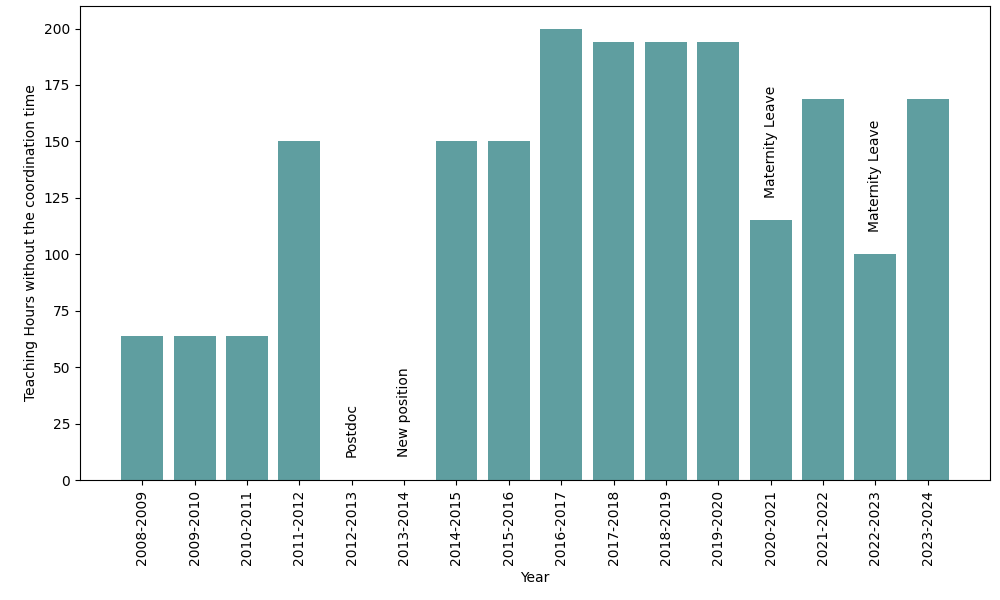
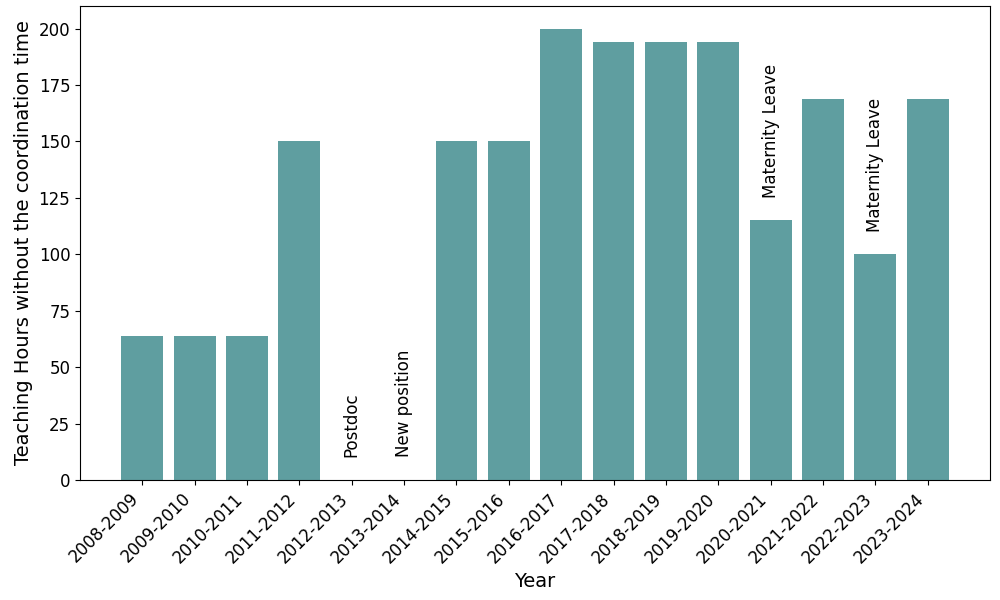
Add  sections

diff --git a/index.html b/index.html
@@ -68,8 +68,13 @@
 
 
                 <h3>Research Interests  </h3>
+                <div class="figure_center" >
+                    <img src="img/Topics.png"width="80%" height="80%">
+
+                </div>
                 <Div Align=LEFT>   <h4> <strong> Monitor, model and predict the critical zone under the global change (climatic ad societal) ... </strong> </h4>
                 </Div>
+
                 <p>"The Critical Zone is defined by National Research Council as the “surface and near-surface environment that sustains nearly all terrestrial life” and is highlighted in the report as a research focus of particular urgency, given the rapidly expanding needs of society."
                     <a href="https://agupubs.onlinelibrary.wiley.com/doi/full/10.1029/2007RG000242">Knight et al., 2010</a> </p>
                 <p>" The critical zone (CZ) includes natural and anthropogenic environments, where life, energy and matter cycles combine in complex interactions in time and space."
@@ -84,7 +89,7 @@
                         <li>Hydrological and Hydrogeological Impacts of Permafrost Dynamics</li>
                         <ul>
                             <li>Hydrodynamic and Transport Properties of Aquifers</li>
-                            <li>Numerical and Experimental Approaches to Permafrost Dynamics</li>
+                            <li>Numerical and Experimental Approaches to Permafrost Dynamics <a href="https://www.sciencedirect.com/science/article/abs/pii/S0165232X18300715?via%3Dihub"> ⟨10.1016/j.coldregions.2018.11.005⟩ </a></li>
                             <li>Interactions with Groundwater and Surface Water</li>
                             <li>From Local Scale to Sedimentary Basin; from Glacial-Interglacial Cycle to Current Warming</li>
                         </ul>
@@ -97,6 +102,7 @@
                         </ul>
                         <li>Hydrosystems Facing Global Changes (Climate and Societal):</li>
                         <ul>
+                            <li> Hydrodynamic Properties of Aquifers from  well water response to Earth tides <a href="https://egusphere.copernicus.org/preprints/2023/egusphere-2023-1727/"> ⟨10.5194/egusphere-2023-1727⟩</a> </li>
                             <li>Groundwater flooding : Study on Groundwater Rise in Paris and the Inner Suburbs during Seine and Marne Flooding event :  <a href="http://www.theses.fr/2019PSLEM057"> ⟨PAPI_EPTB⟩</a> </li>
                             <li>Water and Heat Fluxes from Atmosphere to Aquifers in the Seine Basin:  <a href="https://www.theses.fr/272277355"> ⟨HEAT_hydrosystem⟩</a>  </li>
                             <li> Anthropic Usages: Geothermal Applications, Cooling Systems, Water Pumping </li>
@@ -113,33 +119,42 @@
                         <p> <strong>Observatories :  </strong> Orgeval Critical zone (long-term and high frequency of water level and temperature) </p>
                         <p> <strong>Stakeholders collaborations :  </strong> PIREN Seine program  </p>
 
-<Div align="CENTER">
-                    <img src="img/methodo_AR.png"width="80%" height="80%">
+<div class="figure_center">
+    <img class="figure" style="width: 200px;" src="img/figures/diagrame_methodo_en.png" alt="GWSBound_metho" >
+
+    <img class="figure" style="width:450px;" src="img/figures/MethodoMix-3.png" alt="GWSBound_methoMix" >
+
 
                     <p> Figure 1: From phenological studies to numerical modelling à la simulation</p>
-</Div>
+</div>
 
                 <h3> Teaching Experience (14 Years) </h3>
                 <p> 3 years as Teaching Assistant (64 hours per year), 1 year as Temporary Lecturer (192 hours per year), 3 years as Tenure-Track Faculty (100-190 hours per year), and 2 years as Researcher-Teacher (150-200 hours per year). </p>
+
+
+                <div class="figure_center">
+                    <img class="figure" style="width: 200px;" src="img/Tearching_methodes.png" alt="hours_teaching_AR" >
+                    <p>Figure: Teaching </p>
+                </div>
+                <h4> Topics </h4>
                 <p>Hydrogeology and Hydrology quantitative, Transport of Solutes and Heat (Geothermal), Basics of hydrogeology and applied geology</p>
                 <p>Environmental Studies, Signal treatment, Data analysis,</p>
                 <p>Numerical programming, data processing and modeling in geosciences, </p>
                 <p> <a  href="https://www.linkedin.com/posts/minesparis_parolesdetudiants-molonari-activity-7140626410133426176-pPhH/?originalSubdomain=fr"> Engineering Project </a> : Development of local Monitoring Ecosystem of Groundwater-River exchanges, </p>
                 <p> Field works in Structural and Sedimentary Geology, in Hydrology and Hydrogeology</p>
 
-                <p>
-                    <strong>Supervision Experience:</strong> Postdoctoral Researchers : 4, Ph.D. Theses : 7, Master's Theses (M2) : 13, Bachelor's Theses (L3): 1 and  Undergraduate Projects (L1): 1
-                </p>
+                <h4> <strong>Supervision Experience:</strong> </h4>
+                <p> Postdoctoral Researchers : 4, Ph.D. Theses : 7, Master's Theses (M2) : 13, Bachelor's Theses (L3): 1 and  Undergraduate Projects (L1): 1 </p>
 
-                <p>
-                    <strong> Administrative Roles </strong> </p>
-                <ul>
-                    <li>2020-Present: Coordinator for the numerical Applications in Geosciences, 4th year at <a href="https://www.polytech.sorbonne-universite.fr/formations/sciences-de-la-terre"> École Polytechnique Universitaire (EPU) </a> (Sorbonne University, Paris , France )</li>
-                    <li>2019-Present: Coordinator for the Numerical modelling of water ressources  Module of the <a href="https://psl.eu/en/education/masters-degree-planetary-science">master's degree in Earth and planetary science, environment</a>, ENS, PSL</li>
-                    <li>2016-2019: Coordinator for the Environmental Module of the <a href="https://collegedoctoral.psl.eu/actualites/2017/09/19/le-programme-psl-iti/"> PSL-ITI </a>Mastere's Program (PSL University, Paris, France) </li>
-                    <li>2014-Present: Coordinator for the Quantitative Hydrogeology Module, 5th year at <a href="https://www.polytech.sorbonne-universite.fr/formations/sciences-de-la-terre"> EPU </a> (Sorbonne University, Paris, France)</li>
-                    <li>2011-2012: Coordinator for the Field Internship in Hydrology (Seine and Aube) and the  Hydrology-Hydrogeology Module of  <a href="https://hhge.metis.upmc.fr/"> Master 1 SDUEE HHGE  </a> (Sorbonne University, Paris, France) </li>
-                </ul>
+
+                <h4>
+                    <strong> Administrative Roles </strong> </h4>
+                <p> <strong> 2020-Present: </strong> Coordinator for the numerical Applications in Geosciences, 4th year at <a href="https://www.polytech.sorbonne-universite.fr/formations/sciences-de-la-terre"> Polytech' Sorbonne Engineering school </a> (Sorbonne University, Paris , France )</p>
+                <p> <strong>2019-Present: </strong>Coordinator for the Numerical modelling of water ressources  Module of the <a href="https://psl.eu/en/education/masters-degree-planetary-science">master's degree in Earth and planetary science, environment</a>, ENS, <a href="https://psl.eu/"> Paris Sciences & Lettres (PSL) </a></p>
+                <p> <strong>2016-2019: </strong>Coordinator for the Environmental Module of the <a href="https://collegedoctoral.psl.eu/actualites/2017/09/19/le-programme-psl-iti/"> PSL-ITI </a>Mastere's Program (PSL University, Paris, France) </p>
+                <p> <strong>2014-Present: </strong>Coordinator for the Quantitative Hydrogeology Module, 5th year at <a href="https://www.polytech.sorbonne-universite.fr/formations/sciences-de-la-terre"> Polytech' Sorbonne Engineering school </a> (Sorbonne University, Paris, France)</p>
+                <p> <strong>2011-2012: </strong>Coordinator for the Field Internship in Hydrology (Seine and Aube) and the  Hydrology-Hydrogeology Module of  <a href="https://hhge.metis.upmc.fr/"> Master 1 SDUEE HHGE  </a> (Sorbonne University, Paris, France) </p>
+
             </section>
 
             <section id="section2">
@@ -233,13 +248,13 @@
                 <li>Valois, R., Rivière, A., Vouillamoz, J-M. and Rau G. (2024) - Analytical Solution for Well Water
                     Response to Earth Tides in Leaky Aquifers with Storage and Compressibility in
                     the Aquitard, HESS
-                    <a href="https://egusphere.copernicus.org/preprints/2023/egusphere-2023-1727/"> ⟨10.5194/egusphere-2023-1727</a> </li>
+                    <a href="https://egusphere.copernicus.org/preprints/2023/egusphere-2023-1727/"> ⟨10.5194/egusphere-2023-1727⟩</a> </li>
                 <li> Ackerer, J., Kuppel, S., Braud, I., Pasquet, S., Fovet, O. Probst, A., Pierret, M-C., Ruiz, L., Tallec, T., Lesparre, N.,
                     Weill, S., Flechard, S., Probst, J. L., Marçais, J., Riviere, A., Habets, F., Anquetin, A., and J. Gaillardet (2023)
                     – Exploring the Critical Zone Heterogeneity and the Hydrological Diversity Using an Integrated Ecohydrological Model in
                     Three Contrasted Long-Term Observatories, Water Resources Research, <a
                             href="https://agupubs.onlinelibrary.wiley.com/doi/10.1029/2023WR035672"> ⟨10.1029/2023WR035672⟩ </a> </li>
-                <li> Bois, P., Beisel, J.N., Cairault, A., Flipo, N., Leprince, C. and Rivière, A. ., (2023) – Water temperature dynamics in a headwater forest stream: contrasting climatic, anthropic and geological conditions create thermal mosaic of aquatic habitats, PLOS one
+                <li> Bois, P., Beisel, J.N., Cairault, A., Flipo, N., Leprince, C. and Rivière, A. , (2023) – Water temperature dynamics in a headwater forest stream: contrasting climatic, anthropic and geological conditions create thermal mosaic of aquatic habitats, PLOS one
                     <a href="https://doi.org/10.1371/journal.pone.0281096"> ⟨10.1371/journal.pone.0281096⟩ </a>
                 </li>
                 <li> BA Mouhamadoul, M., Crave, A., Heyman, J., Rivière A., Oliver-Soulayrol Marc, Kergosien Bruno; Rolland Pascal; Petton, C., Lavenant, N., Kermarrec, J.J., Meric, F., Stube, V. (2023) – A dataset on physico-chemical hyporheic variables in the Selune River: Towards understanding the impact of dam removal on riverbed clogging processes, Data in brief
@@ -439,15 +454,51 @@
                     <li>    Rivière, A., Gonçalvès, J., Jost, A., and Font, M., (2010) – Numerical modeling of pore water pressure variations in Subpermafrost groundwater subjected to freeze/thaw cycles., Seminar on Hydrogeology between Sisyphe Team and the Editorial Board of Hydrogeology Journal, UMR 7619 SISYPHE, December 3 </li>
                 </ol>
                 <h2> Sessions and workshops organized </h2>
-                <p>CLorem ipsum sit dolor amet.
-                </p>
+                <ol reversed>
+                    <li>  <strong>  2024:</strong>   Observing and understanding current and past subsurface water and energy transfers in a changing environment</li>
+                    <p> Conveners : Victor Bense (Wageningen University and Research, Department of Environmental Sciences, Netherlands), Agnès Rivière (Mines Paris - PSL), Wei-Li Hong (Stockholm University, Department of Geological Sciences, Sweden), Barret Kurylyk (Dalhousie University, Civil and Resource Engineering, Canada), Anne Jost (Sorbonne University, Paris France), Susanne A. Benz (Karlruhe Instiute for Technology, Department of Civil Engineering, Geo and Environmental Sciences, Institute of Photogrammetry and Remote Sensing, Germany), Ariel Thomas (University of Malta, Marine Geology and Seafloor Surveying, Malta)</p>
 
+                    <li>  <strong>  2023:</strong>   Extremes and the critical zone: Water and matter transport during floods and droughts, intermittent streams and processes at the groundwater-surface water interface, Second OZCAR TERENO International Conference Bonn, Germany</li>
+                    <p> Conveners : Andreas Musolff (UFZ, Leipzig), Agnès Rivière (Mines Paris - PSL, Paris), Caroline le Bouteiller (ETNA, Grenoble), Claudia Schütze (UFZ, Leipzig) </p>
+
+
+                    <li>  <strong>  2021:</strong>   Surface - groundwater interactions, First OZCAR TERENO International Conference Strasbourg, France</li>
+                    <p> Conveners : Jan Flekenstein (UFZ, Leipzig), Agnès Rivière (Mines Paris - PSL) </p>
+
+
+                    <li>  <strong> 2016:</strong> Advances, Breakthroughs, and Challenges in Spatio-Temporal Hydrogeologic Sciences, AGU San Francisco, USA</li>
+               <p> Conveners: Kenneth C Carroll ( New Mexico State University Main Campus, USA), Jordi Batlle-Aguilar (University of Kansas, USA), Agnès Rivière (Mines Paris - PSL, France) and Phoolendra K Mishra (California State University Fullerton, USA)
+
+                </ol>
 
             </section>
 
 
             <section id="section5">
                 <h2>Software </h2>
+                <h3>Water and heat fluxes simulations </h3>
+                <ul>
+                    <li>
+                        <img class="figure" style="width: 200px" src="img/figures/Ginette-2.png" alt="Ginette" >
+                        <p><a href="https://github.com/agnes-riviere/ginette"> Ginette: hydrothermal code for Hydrogeophysics applications</a><br>
+                        Ginette is a 2-D variably saturated groundwater flow model with integrated 1-D surface flow for the stream. It rigorously simulates water, energy, and solute transport fluxes in porous media using physically-based equations.<br>
+                        [developer] [since 2008].</p></li>
+                    <li> <p><a href="https://gitlab.com/cawaqs/cawaqs"> CaWaQS: Regional model </a><br>
+                    [contributor] [since 2014].  </p></li>
+                </ul>
+                <h3>Heat as a tracer: Monitoring the stream-aquifer exchanges </h3>
+                <ul>
+                    <li><a href="https://github.com/agnes-riviere/calibration_molonari_mini"> calibration of the mini-LOMOS sensor</a> </li>
+                <p>  [developer] [since 2015].  </p>
+                <li><a href="https://github.com/agnes-riviere/treat_molonari_mini_field">  Treatment of the raw data of the mini-LOMOS sensor</a> </li>
+                <p>  [developer] [since 2015].  </p>
+                 <li><a href="https://github.com/agnes-riviere/ginette/tree/master/application/mini-LOMOS"> Inverting Temperature Hyporheic Zone Data for Water and Heat Flux Estimation</a>  </li>
+                <p>  [developer] [since 2015].  </p>
+                </ul>
+
+                <h3>Database </h3>
+                <h4>Orgeval hygrogeological data</h4>
+                <p> Work in progress</p>
 
                         
             </section>
@@ -496,63 +547,80 @@
                 <section id="section8">
                     <h2> Supervision </h2>
                     <h3>Post Doc researchers</h3>
-                    <p><strong> 2023-2024 : </strong> Antoine Morvan – Modelling of marine dunes : local and large-scale evolutions in an OWF context (MODULLES, France Énergies Marines).  Co-supervised by Antoine Maison (France Energie Marine, Brest France) </p>
-                    <p><strong>2019-2020 :</strong>	Aurélien Bordet – COntinuité écologique de la Seine et intérêt des ACteurs pour sa Restauration (CONSACRE).  Co-supervised by Nicolas Flipo (Mines Paris - PSL) et Céline Le Pichon </p>
-                    <p><strong> 2018-2019 :</strong>	Jonathan Schuite – Rôle des caractéristiques physiques des aquifères dans la déformation du signal climatique enregistré dans les fluctuations piézométriques des aquifères dans le bassin de Paris. Financement Agence de l’eau.  Co-supervised by Nicolas Flipo (Mines Paris - PSL)  et Nicolas Massei (M2C Rouen, France) </p>
+                    <p><strong> 2023-2024 : </strong> Antoine Morvan – Modelling of marine dunes : local and large-scale evolutions in an OWF context (MODULLES, France Énergies Marines).   co-supervisor with Antoine Maison (France Energie Marine, Brest France) </p>
+                    <p><strong>2019-2020 :</strong>	Aurélien Bordet – COntinuité écologique de la Seine et intérêt des ACteurs pour sa Restauration (CONSACRE).   co-supervisor with Nicolas Flipo (Mines Paris - PSL) et Céline Le Pichon </p>
+                    <p><strong> 2018-2019 :</strong>	Jonathan Schuite – Rôle des caractéristiques physiques des aquifères dans la déformation du signal climatique enregistré dans les fluctuations piézométriques des aquifères dans le bassin de Paris. Financement Agence de l’eau.   co-supervisor with Nicolas Flipo (Mines Paris - PSL)  et Nicolas Massei (M2C Rouen, France) </p>
                     <p><strong> 2017-2018: </strong>	Pierre Seraphin – CYcle tRAnsport ENergie EAU. Financement PSL ingénieurie. Co-encadrement : Nicolas Flipo (Mines Paris - PSL) </p>
                     <h3> Doctoral researchers (PhD candidates) </h3>
-                    <p><strong> 2022: </strong>José Cunha Teixeira, Exploitation du monitoring sismique du sous-sol en milieu ferroviaire.   Co-supervised by Ludovic Bodet et Alexandrine Gesret + SNCF. </p>
-                    <p><strong> 2021: </strong>Ramon Sanchez Probabilistic approach in hydrogeophysics to better articulate geophysical data with hydrogeological models.  Co-supervised by Ludovic Bodet et Alexandrine Gesret. </p>
-                        <p><strong> 2018-2021: </strong>Deniz Killiç – Modelling of water and energy fluxes in the Seine basin . Financement MINES ParisTech – Encadrement déclaré : 50%.  Co-supervised by Nicolas Flipo et Patrick Goblet. </p>
-                    <p><strong> 2016- 2019: </strong>Mathias Maillot – Etude du risque d’inondation induite par les écoulements de nappes sur Paris et la petite couronne – Encadrement déclaré : 25%. Financement CIFRE EPTB-Seine Grands Lacs / MINES ParisTech –  Co-supervised by Nicolas Flipo, Patrick Goblet (Mines Paris - PSL) , Françoise Dubreucq et Marc Vincent.</p>
+                    <p><strong> 2022: </strong>José Cunha Teixeira, Exploitation du monitoring sismique du sous-sol en milieu ferroviaire.    co-supervisor with Ludovic Bodet et Alexandrine Gesret + SNCF. </p>
+                    <p><strong> 2021: </strong>Ramon Sanchez Probabilistic approach in hydrogeophysics to better articulate geophysical data with hydrogeological models.   co-supervisor with Ludovic Bodet et Alexandrine Gesret. </p>
+                        <p><strong> 2018-2021: </strong>Deniz Killiç – Modelling of water and energy fluxes in the Seine basin . Financement MINES ParisTech – Encadrement déclaré : 50%.   co-supervisor with Nicolas Flipo et Patrick Goblet. </p>
+                    <p><strong> 2016- 2019: </strong>Mathias Maillot – Etude du risque d’inondation induite par les écoulements de nappes sur Paris et la petite couronne – Encadrement déclaré : 25%. Financement CIFRE EPTB-Seine Grands Lacs / MINES ParisTech –   co-supervisor with Nicolas Flipo, Patrick Goblet (Mines Paris - PSL) , Françoise Dubreucq et Marc Vincent.</p>
                     <p><strong>2015-2018: </strong>Karina Cucchi – Stochastic modeling of water exchanges in the stream-aquifer continuum . Financement UC Berkeley, Chateaubriand Fellowship. – Encadrement : 33%. Co-encadrements: Yoram Rubin (Berkeley University), Nicolas Flipo (Mines Paris - PSL) . </p>
-                    <p><strong>2014-2018: </strong>Asma Berrhouma – Modélisation du transfert de chaleur dans les hydrosystèmes continentaux comme support de la transformation des pollutions diffuses. – Encadrement déclaré : 40%. Financement MINES ParisTech - 70 Co-supervised by Nicolas Flipo et Patrick Goblet (Mines Paris - PSL)  </p>
+                    <p><strong>2014-2018: </strong>Asma Berrhouma – Modélisation du transfert de chaleur dans les hydrosystèmes continentaux comme support de la transformation des pollutions diffuses. – Encadrement déclaré : 40%. Financement MINES ParisTech - 70  co-supervisor with Nicolas Flipo et Patrick Goblet (Mines Paris - PSL)  </p>
                     <h4> supervised </h4>
                     <p><strong>2015-2018: </strong> Marine Dangeard – Développement et utilisation d'une approche time-lapse des méthodes sismiques pour l'hydrogéophysique : compréhension de la dynamique des hydrosystèmes et apport à la modélisation hydrodynamique. Encadrements : Ludovic Bodet et Roger Guérin (Sorbonne University, Paris, France) </p>
 
                     <h3>Master Students</h3>
-                    <p><strong>2024: </strong>  Thomas  Pauze –   Vers une modélisation distribuée du manteau neigeux sous forêt sur le massif de la Chartreuse (Alpes, France), Co-supervised by Isabelle Gouttervin and Yves Lejeune (Centre National de Recherche Météorologique (CNRM)/Centre d’Études de la Neige (CEN)) </p>
-                    <p><strong>2024: </strong> Samuel Larance  –  Water temperature dynamics in a headwater forest stream in the Sauer Watershed, Co-supervised by Paul Bois (ENGESS, Strasbourg, France) </p>
+                    <p><strong>2024: </strong>  Thomas  Pauze –   Vers une modélisation distribuée du manteau neigeux sous forêt sur le massif de la Chartreuse (Alpes, France),  co-supervisor with Isabelle Gouttevin and Yves Lejeune (Centre National de Recherche Météorologique (CNRM)/Centre d’Études de la Neige (CEN)) </p>
+                    <p><strong>2024: </strong> Samuel Larance  –  Water temperature dynamics in a headwater forest stream in the Sauer Watershed,  co-supervisor with Paul Bois (ENGESS, Strasbourg, France) </p>
                     <p><strong>2020: </strong>Guillaume SCHULER – Modélisation des échanges nappe-rivière d’eau et de chaleur à partir des données de la fibre optique le long d’un kilomètre du réseau hydrographique des Avenelles. Soutenu par CRITEX. ENGEES (Strasbourg). </p>
-                    <p><strong>2018: </strong>Deniz Kilic – Spatialisation des échanges nappe-rivière d’eau et d’énergie à l’aide de la fibre optique le long d’un kilomètre du réseau hydrographique des Avenelles. Stage financé par le PIREN-Seine, soutenu par CRITEX. Master 2 Hydrogéologie et transferts associés, Université de Poitier (Poitier). Co-supervised by : Olivier Bour (Geosciences Rennes, France) </p>
-                    <p><strong>2016: </strong>Solenne Schneider – Geophysical interpolation of hydrodynamic properties in the vadose zone, M2 STPE, Université de Rennes 1. Stage financé par le PIREN-Seine, soutenu par CRITEX. Co-supervised by Ludovic Bodet and Marine Dangeard (Metis, Sorbonne University, Paris) </p>
-                    <p><strong>2016: </strong>Iker Lazcano Bilbao – Détermination de la courbe de gel du sable de Nemours : interprétation de mesures du contenu en eau liquide d'un sol gelé obtenues par TDR, Master 2, Université Pierre et Marie Curie (Paris VI). Stage financé par la FIRE. Co-supervised by Fayçal Réjiba et Anne Jost (Metis, Sorbonne University, Paris) </p>
-                    <p><strong>2016: </strong>Arthur Rambert – Création d’un code de simulation de transport de chaleur et de solutés en 1D, Ecole Polytechnique Universitaire, Université Pierre et Marie Curie (Paris VI).  Co-supervised by Nicolas Flipo (Mines Paris - PSL)  </p>
-                    <p><strong>2015: </strong>Mathias Maillot – Caractérisation des hétérogénéités et impact sur les circulations hyporhéiques dans un système fluviatile : du modèle sédimentaire au modèle hydrogéologique. Master 2 Hydrologie Hydrogéologie, Université Pierre et Marie Curie (Paris VI).  Co-supervised by Pierre Weil (M2C Caen, France) </p>
-                    <p><strong>2014: </strong>Edmée Cuisinier – Quantification des échanges nappe rivière depuis l'échelle du tronçon jusqu'à l'échelle régionale - stage de fin d’étude Polytechnique – Co-encadrement : Nicolas Flipo (Mines Paris - PSL) </p>
-                    <p><strong>2012: </strong>Audrey Lespinasse – Simulation des écoulements dans la zone non saturée : validation avec des solutions analytiques. 3ème année EPU, Université Pierre et Marie Curie (Paris VI).</p>
-                    <p><strong>2011: </strong>Marion Meigneux – Modélisation 2D de l’écoulement et du transport de chaleur dans le bassin de Paris : étude de l’impact du pergélisol au cours du dernier cycle climatique. Master 2 EGID, Université Michel de Montaigne, (Bordeaux III).  Co-supervised by Anne Jost (Metis, Sorbonne University, Paris) et Julio Gonçalvès (Cerege, Aix en Provence, France). </p>
-                    <p><strong>2010: </strong>Cheikhna Aliou Koita – Modélisation de l'échange nappe-rivière : validation expérimentale de modèles numériques. Master 2 Ingénierie de Réservoir, Université de Pau.  Co-supervised by Anne Jost (Metis, Sorbonne University, Paris). Collaboration Schlumberger Water Services, Sandra Jenni.</p>
+                    <p><strong>2018: </strong>Deniz Kilic – Spatialisation des échanges nappe-rivière d’eau et d’énergie à l’aide de la fibre optique le long d’un kilomètre du réseau hydrographique des Avenelles. Stage financé par le PIREN-Seine, soutenu par CRITEX. Master 2 Hydrogéologie et transferts associés, Université de Poitier (Poitier).  co-supervisor with : Olivier Bour (Geosciences Rennes, France) </p>
+                    <p><strong>2016: </strong>Solenne Schneider – Geophysical interpolation of hydrodynamic properties in the vadose zone, M2 STPE, Université de Rennes 1. Stage financé par le PIREN-Seine, soutenu par CRITEX.  co-supervisor with Ludovic Bodet and Marine Dangeard (Metis, Sorbonne University, Paris) </p>
+                    <p><strong>2016: </strong>Iker Lazcano Bilbao – Détermination de la courbe de gel du sable de Nemours : interprétation de mesures du contenu en eau liquide d'un sol gelé obtenues par TDR, Master 2, Université Pierre et Marie Curie (Paris VI). Stage financé par la FIRE.  co-supervisor with Fayçal Réjiba et Anne Jost (Metis, Sorbonne University, Paris) </p>
+                    <p><strong>2016: </strong>Arthur Rambert – Création d’un code de simulation de transport de chaleur et de solutés en 1D, Ecole Polytechnique Universitaire, Université Pierre et Marie Curie (Paris VI).   co-supervisor with Nicolas Flipo (Mines Paris - PSL)  </p>
+                    <p><strong>2015: </strong>Mathias Maillot – Caractérisation des hétérogénéités et impact sur les circulations hyporhéiques dans un système fluviatile : du modèle sédimentaire au modèle hydrogéologique. Master 2 Hydrologie Hydrogéologie, Université Pierre et Marie Curie (Paris VI).   co-supervisor with Pierre Weil (M2C Caen, France) </p>
+                    <p><strong>2014: </strong>Edmée Cuisinier – Quantification des échanges nappe rivière depuis l'échelle du tronçon jusqu'à l'échelle régionale - stage de fin d’étude Polytechnique –  co-supervisor with Nicolas Flipo (Mines Paris - PSL) </p>
+                    <p><strong>2012: </strong>Audrey Lespinasse – Simulation des écoulements dans la zone non saturée : validation avec des solutions analytiques. Master  level, Polytech' Sorbonne Engineering school, Sorbonne University, Paris (France) (Paris VI).</p>
+                    <p><strong>2011: </strong>Marion Meigneux – Modélisation 2D de l’écoulement et du transport de chaleur dans le bassin de Paris : étude de l’impact du pergélisol au cours du dernier cycle climatique. Master 2 EGID, Université Michel de Montaigne, (Bordeaux III).   co-supervisor with Anne Jost (Metis, Sorbonne University, Paris) et Julio Gonçalvès (Cerege, Aix en Provence, France). </p>
+                    <p><strong>2010: </strong>Cheikhna Aliou Koita – Modélisation de l'échange nappe-rivière : validation expérimentale de modèles numériques. Master 2 Ingénierie de Réservoir, Université de Pau.   co-supervisor with Anne Jost (Metis, Sorbonne University, Paris). Collaboration Schlumberger Water Services, Sandra Jenni.</p>
 
-                    <h3>Bachelor Students</h3>:
+                    <h3>Bachelor Students</h3>
                     <p><strong>2011: </strong>Sarah Dantec-Nedelec – Estimation de paramètres hydrodynamiques d’un sable de Nemours non saturé. Licence 3, UPMC (Paris VI). </p>
                     <p><strong>2009: </strong>Barbara Themereau, Arthur Legentil et Lowen Moritz (2010) – Comment circule un fluide dans un aquifère ? Mesures en laboratoire sur maquette. Licence 1, module Géosciences, Ressources, Environnement, UPMC (Paris VI). </p>
 
-
-
-
+                    <h2> Thesis monitoring committees (PhD candidates) </h2>
+                        <p><strong>2022-2025: </strong> <a href="https://ciprhes.hub.inrae.fr/portraits-ciprhes/shu-chen-hsu-inrae"> Shu-Chen HS </a> – Multi-criteria approaches to ensure the spatio-temporal consistency of water fluxes within a semi-distributed hydrological model. INRAE (Anthony, France) </p>
+                        <p><strong> 2018-2022:</strong> <a href="https://www.theses.fr/268450439"> Jérôme Texier </a> – Caractérisation des échanges nappe-Rhône et des capacités d'autoépuration des berges : application au site de la Jouve (Sorgues). Cerge (Aix-Marseille University, France)  </p>
+                        <p><strong> 2021-2024:</strong> <a href=""> Rose-nelly Ogandaga capito </a> –Influence de la morphologie de la zone de socle altéré sous couverture sur la convection et les anomalies de température dans la zone centrale du graben du Rhin. Conséquences potentielles sur la distribution des teneurs en Lithium. Mines Paris - PSL (Fontainebleau, France) </p>
+                        <p><strong>2022-2025:</strong> <a href=""> Clémence Daigre </a> – Impact de la fonte des glaciers tempérés sur la dynamique des aquifères, à travers le cas du Sud-Est de l'Islande. ENS Ulm, PSL University (Paris, France)</p>
+                        <p><strong> 2019-2023:</strong> <a href="https://agenda.univ-rennes.fr/events/dynamique-des-interactions-physico-chimiques-en-zone-hyporheique-influence-des-crues-et-de-la-suppression-des-barrages"> Mouhamadoul Moustapha Ba </a> –Dynamique des interactions physico-chimiques en zone hyporhéique : Influence des crues et de la suppression des barrages. Geosciences Rennes (France)   </p>
+                        <p><strong> 2016-2019:</strong> <a href="https://www.theses.fr/2019SORUS476"> Marine Dangeard </a> –  Développement d'une approche « time-lapse » des méthodes sismiques pour l'hydrogéophysique et la compréhension de la dynamique des hydrosystèmes. Sorbonne University (Paris, France)</p>
+                        <p><strong>2016-2019:</strong> <a href="https://www.theses.fr/249899426"> Cécile Finco </a> – Étude de l’impact simultané des propriétés électriques, diélectriques et magnétiques du sous-sol sur la mesure géophysique par méthode électromagnétique inductive dans le domaine temporel (TDEM). Sorbonne University (Paris, France)</p>
                 </section>
                     <section id="section9">
                         <h2> Teaching experiences </h2>
-                        <h3> Current Position (2014 - Present):</h3>
-                            <ul>
-                                <li>Master 2</li>
-                                <ul>
-                                <li>2020-Present: Basics in hydrogeology and hydrogeophysics applications, Option Geosciences, <a href="https://admissibles.minesparis.psl.eu/index.php/structure-de-la-troisieme-annee/">  3rd year </a> at the Ecole des Mines de Paris, Mines Paris PSL (Lectures + Tutorial: 9 hours)</li>
-                                <li> 2020-Present: Hydrogeological modeling, <a href="https://www.geosciences.ens.fr/enseignement/master/modelisation-numerique-des-ressources-en-eau">  Master 2 Geosciences </a>,  ENS - PSL, Paris (Lectures + Tutorial: 30 hours) </li>
-                                <li> 2014-Present: Module leader for quantitative hydrogeology in the 5th year at Ecole Polytechnique Universitaire de Sorbonne (Lectures: 48 hours)</li>
-                                </ul>
-                                <li>Master 1 </li>
-                                <ul>
-                                    <li> 2023-Present : Hydrogeology Quantitative, <a href="https://www.geosciences.ens.fr/enseignement/master/ressource-eau"> Master 1 Geoscience </a>, ENS - PSL Paris (4 hours ) </li>
-                                <li> 2020-Present:  Numerical modeling in geosciences, 4th year at Ecole Polytechnique Universitaire de Sorbonne Geoscience (Lectures + Tutorial: 15 hours)</li>
-                                </ul>
-                                <li></li>
+                      <p>  From 2008 to present, I have been lecturing around 124 hours per year without accounting for the coordination and responsibility time of the modules
+                          (cf. figure below) within different engineering school (<a href="https://www.minesparis.psl.eu/"> Mines Paris</a>, <a href="https://www.polytech.sorbonne-universite.fr/"> Polytech' Sorbonne Engineering school </a>) and university (<a href="https://www.sorbonne-universite.fr/">  Sorbonne University </a>, <a href="https://psl.eu/"> PSL (Paris Sciences & Lettres) University) </a>  </p>
 
-                            </ul>
+                        <div figure.center>
+                        <img class="figure" style="width: 600px;" src="img/teaching_hours_figure.png" alt="hours_teaching_AR" >
+                            <p>Figure: Hours of Teaching Per Year without the coordination time</p>
+                        </div>
 
 
 
+                        <h3> Current Position (2014-Present):</h3>
+
+                                <h4>Master 2</h4>
+
+                                    <p><strong>2020-Present: </strong>Basics in hydrogeology and hydrogeophysics applications, Option Geosciences, <a href="https://admissibles.minesparis.psl.eu/index.php/structure-de-la-troisieme-annee/">  3rd year </a> at the Ecole des Mines de Paris, Mines Paris PSL (Lectures + Tutorial: 9 hours)</p>
+                                    <p><strong> 2020-Present: </strong> Hydrogeological modeling, <a href="https://www.geosciences.ens.fr/enseignement/master/modelisation-numerique-des-ressources-en-eau">  Master 2 Geosciences </a>,  ENS - PSL, Paris (Lectures + Tutorial: 30 hours) </p>
+                                    <p><strong> 2014-Present: </strong> Module leader for quantitative hydrogeology in the 5th year at Polytech' Sorbonne Engineering school, Sorbonne University, Paris (France) (Lectures+Tutorial: 48 hours)</p>
+
+                                <h4>Master 1 </h4>
+
+                                    <p><strong>   2023-Present: </strong> Hydrogeology Quantitative, <a href="https://www.geosciences.ens.fr/enseignement/master/ressource-eau"> Master 1 Geoscience </a>, ENS - PSL Paris (4 hours ) <p>
+                                    <p><strong>     2020-Present: </strong>  Numerical modeling in geosciences, 4th year at Polytech' Sorbonne Engineering school, Sorbonne University, Paris (France)  (Lectures + Tutorial: 15 hours)</p>
+
+
+
+                        <h3> OZCAR Summer School(2014-Present):</h3>
+                        <p>The 3rd edition of the OZCAR summer school took place from 1 to 7 July in Aubure, a small Alsatian village home where the OHGE observatory (Observatoire Hydro-Géochimique de l’Environnement) is located, in the lush green setting of the Vosges forest at the foot of the Strengbach watershed. </p>
+                        <p>I and Sylvain Weill presented the themes and methodologies of hydrology and hydrogeology.
+                            The presentation enabled to remind the processes that make up the water cycle. This cycle differs greatly from one environment to another, and it was an opportunity to discuss on percolation, water residence times and different saturation profiles,
+                            all factors that have to be taken into account when modelling the hydrological system of a catchment.</p>
+                         <p>You can find the presentations of this 3rd OZCAR summer school on the <a href="https://www.youtube.com/watch?v=Tv7GYHPG9Ao"> OZCAR YouTube channel</a> </p>
 
                     </section>
 
@@ -564,15 +632,15 @@
                 <h2>CV </h2>
                     <h3> Main professional experiences </h3>
 
-                            <p><strong>2017- : </strong>  Associate professor at Geosciences and Geoengineering Department (a research center common to Mines Paris and ARMINES), PSL University, (Fontainebleau, France) </p>
+                            <p><strong>2017-present: </strong>  Associate professor at Geosciences and Geoengineering Department (a research center common to Mines Paris and ARMINES), PSL University, (Fontainebleau, France) </p>
                             <p><strong>2014-2017: </strong>  Tenure-Track at Geosciences and Geoengineering Department (a research center common to Mines Paris and ARMINES), PSL University, (Fontainebleau, France) </p>
                             <p><strong>2013:2014:</strong>  Postdoc at Department of Earth, Energy, and Environment, University of Calgary (Calgary, Alberta, Canada), Title: Influence of  heat transfer on permafrost thaw, on permafrost and groundwater flow at Scotty Creek, NWT, Canada, 1 year, Supervised by Pr. Masaky Hayashi. </p>
                             <p><strong>2011-2012: </strong>  Temporary research and teaching assistant (ATER) at the UMR 7619 Sisyphe, Université Pierre et Marie Curie, (Paris VI) - now Métis, Sorbonne Université, Paris, France </p>
                             <p><strong>2008-2011: </strong>  PhD. thesis</p>
-                            <p><strong>2008 : </strong>  Master thesis in hydrogeology, at Arkema France and at the UMR 7619 Sisyphe, Université Pierre et Marie Curie, (Paris VI) - now Métis, Sorbonne Université, Paris, France, Title: "Modélisation du transport et de la biodégradation des solvants chlorés dans un aquifère alluvionnaire impacté par des émanations industrielles.", 6 months, Supervised by Dr. Hocine Benjoudi, Pr. Ghislain De Marsily and Dr. Christelle Courbet. </p>
-                            <p><strong> 2007 :  </strong>  Engineering internship in hydrogeology at Bundesanstalt für Geowissenschaften und Rohstoffe (BGR), Hanover, Germany, Title: "Investigation of the palaeohydrogeology of the Cuvelai Basin by recours of remote sensing and literature compilation.", 5 months, Supervised by Pr. Thomas Himmelsbach. </p>
-                            <p><strong> 2005 : </strong>  Engineering internship in Envrironment at Le Foll TP (Building and Public Works),Corneville-sur-Risle, France, Environmental policy consultant, 4 months,Supervised by Pierre Gil (Le Foll BTP) </p>
-                            <p><strong>2004 :  </strong>  Engineering internship in Envrironment at Groupement chaussée Autoroute A28 (Building and Public Works),Caorches-Saint-Nicolas, France, Implementation of environmental control plans on a highway construction site, 2 months, Supervised by Pierre Certain (Le Foll BTP) </p>
+                            <p><strong>2008: </strong>  Master thesis in hydrogeology, at Arkema France and at the UMR 7619 Sisyphe, Université Pierre et Marie Curie, (Paris VI) - now Métis, Sorbonne Université, Paris, France, Title: "Modélisation du transport et de la biodégradation des solvants chlorés dans un aquifère alluvionnaire impacté par des émanations industrielles.", 6 months, Supervised by Dr. Hocine Benjoudi, Pr. Ghislain De Marsily and Dr. Christelle Courbet. </p>
+                            <p><strong> 2007:  </strong>  Engineering internship in hydrogeology at Bundesanstalt für Geowissenschaften und Rohstoffe (BGR), Hanover, Germany, Title: "Investigation of the palaeohydrogeology of the Cuvelai Basin by recours of remote sensing and literature compilation.", 5 months, Supervised by Pr. Thomas Himmelsbach. </p>
+                            <p><strong> 2005: </strong>  Engineering internship in Envrironment at Le Foll TP (Building and Public Works),Corneville-sur-Risle, France, Environmental policy consultant, 4 months,Supervised by Pierre Gil (Le Foll BTP) </p>
+                            <p><strong>2004:  </strong>  Engineering internship in Envrironment at Groupement chaussée Autoroute A28 (Building and Public Works),Caorches-Saint-Nicolas, France, Implementation of environmental control plans on a highway construction site, 2 months, Supervised by Pierre Certain (Le Foll BTP) </p>
 
 
                     <h3> Education </h3>
@@ -596,6 +664,7 @@
             <footer>
                 <p>Vanilla HTML website</p>
                 <p>Police de caractère Xx, hébergé par XxFonts</p>
+                <img src="img/9627-MinesParisa-BlocMarquea-RVBBLEUVF-660x430.png">
             </footer>
         </div>
     </div>

diff --git a/styles.css b/styles.css
@@ -136,7 +136,15 @@ li{
 .figure img, .figure video{
     width: 100%;
 }
-
+.figure_center{
+    margin-left: auto;
+    margin-right: auto;
+    display: block;
+    text-align: center;
+}
+.figure_center img{
+    vertical-align: middle;
+}
 section,
 footer {
     position: relative;

diff --git a/courses_fig.py b/courses_fig.py
@@ -2,6 +2,7 @@ import pandas as pd
 import matplotlib.pyplot as plt
 import pandas as pd
 import os
+import numpy as np
 # Your DataFrame
 data = {
     'Year': [2008, 2009, 2010, 2011, 2012, 2013, 2014, 2015, 2016, 2017, 2018, 2019, 2020, 2021, 2022, 2023],
@@ -31,7 +32,9 @@ df['Year'] = df['Year'].astype(str) + '-' + (df['Year'] + 1).astype(str)
 
 # Display the DataFrame
 print(df)
-
+# Calculate the mean of Teaching Hours
+mean_teaching_hours = np.mean(df['Teaching Hours'])
+print(mean_teaching_hours)
 
 # Plotting
 fig, ax = plt.subplots(figsize=(10, 6))
@@ -40,24 +43,27 @@ plt.bar(df['Year'], df['Teaching Hours'], color='cadetblue')
 # Adding event markers
 for index, row in df.iterrows():
     if row['Event'] == 'Maternity Leave':
-        plt.text(row['Year'], row['Teaching Hours'] + 10, 'Maternity Leave', ha='center', va='bottom', rotation=90)
+        ax.text(row['Year'], row['Teaching Hours'] + 10, 'Maternity Leave', ha='center', va='bottom', rotation=90, fontsize=12)
     if row['Event'] == 'Postdoc':
-        plt.text(row['Year'], row['Teaching Hours'] + 10, 'Postdoc', ha='center', va='bottom', rotation=90)
+        ax.text(row['Year'], row['Teaching Hours'] + 10, 'Postdoc', ha='center', va='bottom', rotation=90, fontsize=12)
     if row['Event'] == 'New position':
-        plt.text(row['Year'], row['Teaching Hours'] + 10, 'New position', ha='center', va='bottom', rotation=90)
+        ax.text(row['Year'], row['Teaching Hours'] + 10, 'New position', ha='center', va='bottom', rotation=90, fontsize=12)
 # Update x-axis labels with the 'Year' column
-plt.xticks(range(len(df)), df['Year'], rotation=90, ha='center')  # Setting rotation to 0 and ha to 'center'
+# Rotate all x-axis labels
+ax.set_xticks(range(len(df)))
+ax.set_xticklabels(df['Year'], rotation=45, ha='right', fontsize=12)  # Adjust fontsize
+ax.tick_params(axis='y', labelsize=12)
 
-plt.xlabel('Year', rotation=0, ha='center')  # Setting rotation to 0 and ha to 'center'
-plt.ylabel('Teaching Hours without the coordination time')
+ax.set_xlabel('Year', fontsize=14)  #  Setting rotation to 0 and ha to 'center'
+ax.set_ylabel('Teaching Hours without the coordination time', fontsize=14)  #
 # Adjust space at the top and bottom
-plt.subplots_adjust(top=0.99, bottom=0.2,right=0.99,left=0.08)
+plt.subplots_adjust(top=0.99, bottom=0.2, right=0.99, left=0.08)
 # Save the figure as a PNG file
 
 # Specify the directory to save the image
 img_directory = 'img'
 os.makedirs(img_directory, exist_ok=True)
 
-plt.savefig(os.path.join(img_directory, 'teaching_hours_figure.png'))
+plt.savefig(os.path.join(img_directory, 'teaching_hours.png'))
 
 plt.show()
